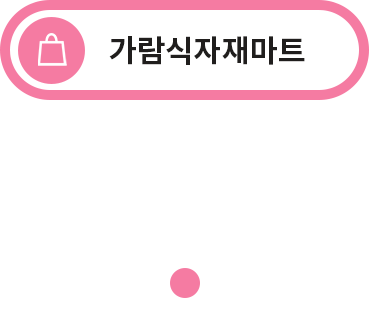
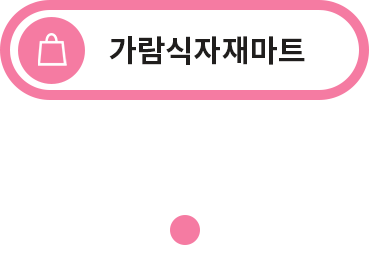
식자재 마트 추가

Changed region(s): [[0.0, 0.0, 0.9588, 0.3852], [0.433, 0.7704, 0.5258, 0.9481]]

diff --git a/skin.js b/skin.js
@@ -1,7 +1,7 @@
 // Garden Gnome Software - Skin
 // Pano2VR 7.0.8/20017
 // Filename: ???? ?? ??.ggsk
-// Generated 2024-01-31T17:06:19
+// Generated 2024-01-31T17:12:48
 
 function pano2vrSkin(player,base) {
 	player.addVariable('vis_sidemenu', 2, true, { ignoreInState: 0  });
@@ -5810,10 +5810,10 @@ function pano2vrSkin(player,base) {
 			}
 			if (me.__3.ggCurrentLogicStatePosition != newLogicStatePosition) {
 				me.__3.ggCurrentLogicStatePosition = newLogicStatePosition;
-				me.__3.style.transition='left 0s, bottom 0s';
+				me.__3.style.transition='left 0s, bottom 0s, transform 0s';
 				if (me.__3.ggCurrentLogicStatePosition == 0) {
 					me.__3.style.left = 'calc(50% - (280px / 2))';
-					me.__3.style.bottom='25px';
+					me.__3.style.bottom='10px';
 				}
 				else {
 					me.__3.style.left='calc(50% - ((280px + 0px) / 2) + 0px)';
@@ -5822,6 +5822,35 @@ function pano2vrSkin(player,base) {
 			}
 		}
 		me.__3.logicBlock_position();
+		me.__3.logicBlock_scaling = function() {
+			var newLogicStateScaling;
+			if (
+				((player.getViewerSize().width <= 640))
+			)
+			{
+				newLogicStateScaling = 0;
+			}
+			else {
+				newLogicStateScaling = -1;
+			}
+			if (me.__3.ggCurrentLogicStateScaling != newLogicStateScaling) {
+				me.__3.ggCurrentLogicStateScaling = newLogicStateScaling;
+				me.__3.style.transition='left 0s, bottom 0s, transform 0s';
+				if (me.__3.ggCurrentLogicStateScaling == 0) {
+					me.__3.ggParameter.sx = 0.8;
+					me.__3.ggParameter.sy = 0.8;
+					me.__3.style.transform=parameterToTransform(me.__3.ggParameter);
+					skin.updateSize(me.__3);
+				}
+				else {
+					me.__3.ggParameter.sx = 1;
+					me.__3.ggParameter.sy = 1;
+					me.__3.style.transform=parameterToTransform(me.__3.ggParameter);
+					skin.updateSize(me.__3);
+				}
+			}
+		}
+		me.__3.logicBlock_scaling();
 		me.__3.ggUpdatePosition=function (useTransition) {
 		}
 		el=me.__13=document.createElement('div');
@@ -6724,6 +6753,7 @@ function pano2vrSkin(player,base) {
 		me.__m1.logicBlock_visible();
 		me.__m0.logicBlock_textcolor();
 		me.__3.logicBlock_position();
+		me.__3.logicBlock_scaling();
 		me.__0.logicBlock_position();
 		me.__0.logicBlock_size();
 		me._close.logicBlock_position();
@@ -6852,6 +6882,7 @@ function pano2vrSkin(player,base) {
 			me.__m.logicBlock_scaling();
 			me.__m.logicBlock_visible();
 			me.__3.logicBlock_position();
+			me.__3.logicBlock_scaling();
 			me.__0.logicBlock_position();
 			me.__0.logicBlock_size();
 			me._close.logicBlock_position();

diff --git a/index.html b/index.html
@@ -36,9 +36,9 @@
 	</head>
 	<body>
 <!-- - - - - - - 8<- - - - - - cut here - - - - - 8<- - - - - - - -->
-		<script type="text/javascript" src="pano2vr_player.js?ts=88379711">
+		<script type="text/javascript" src="pano2vr_player.js?ts=88768794">
 		</script>
-		<script type="text/javascript" src="skin.js?ts=88379711">
+		<script type="text/javascript" src="skin.js?ts=88768794">
 		</script>
 		<div id="container" style="width:100%;height:100%;overflow:hidden;">
 		<br>Loading...<br><br>
@@ -89,12 +89,12 @@
 			pano=new pano2vrPlayer("container");
 			pano.startNode = startNode;
 			pano.startView = startView;
-			pano.setQueryParameter("ts=88379711")
+			pano.setQueryParameter("ts=88768794")
 			// add the skin object
 			skin=new pano2vrSkin(pano);
 			// load the configuration
 			window.addEventListener("load", function() {
-				pano.readConfigUrlAsync("pano.xml?ts=88379711");
+				pano.readConfigUrlAsync("pano.xml?ts=88768794");
 			});
 			if (window.navigator.userAgent.match(/Safari/i)) {
 				// fix for white borders, rotation on iPhone
